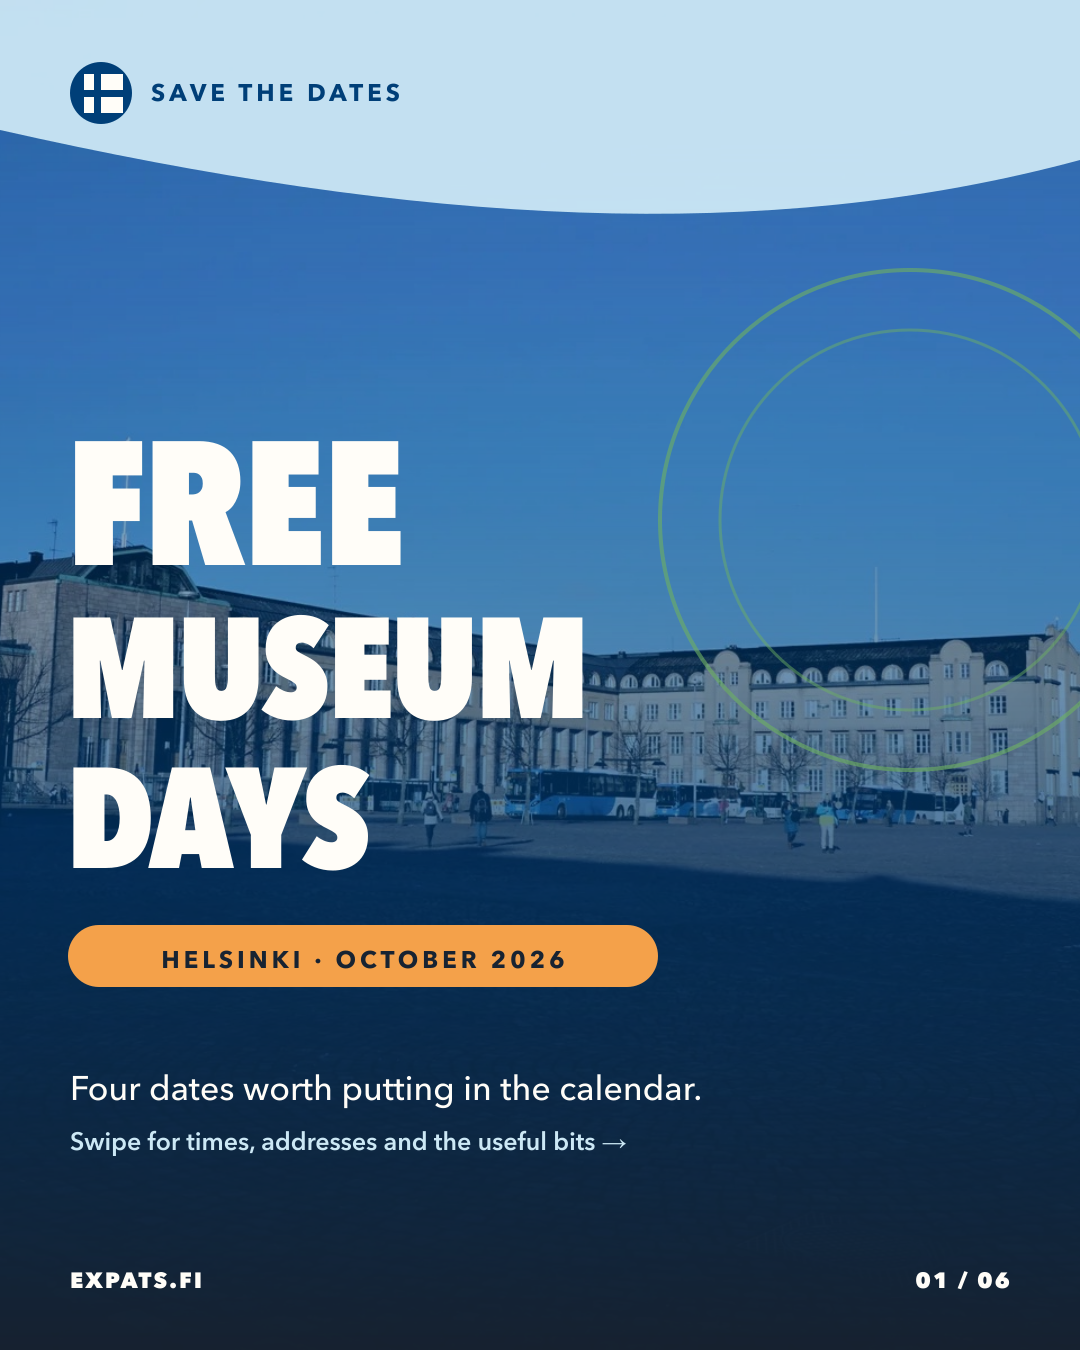
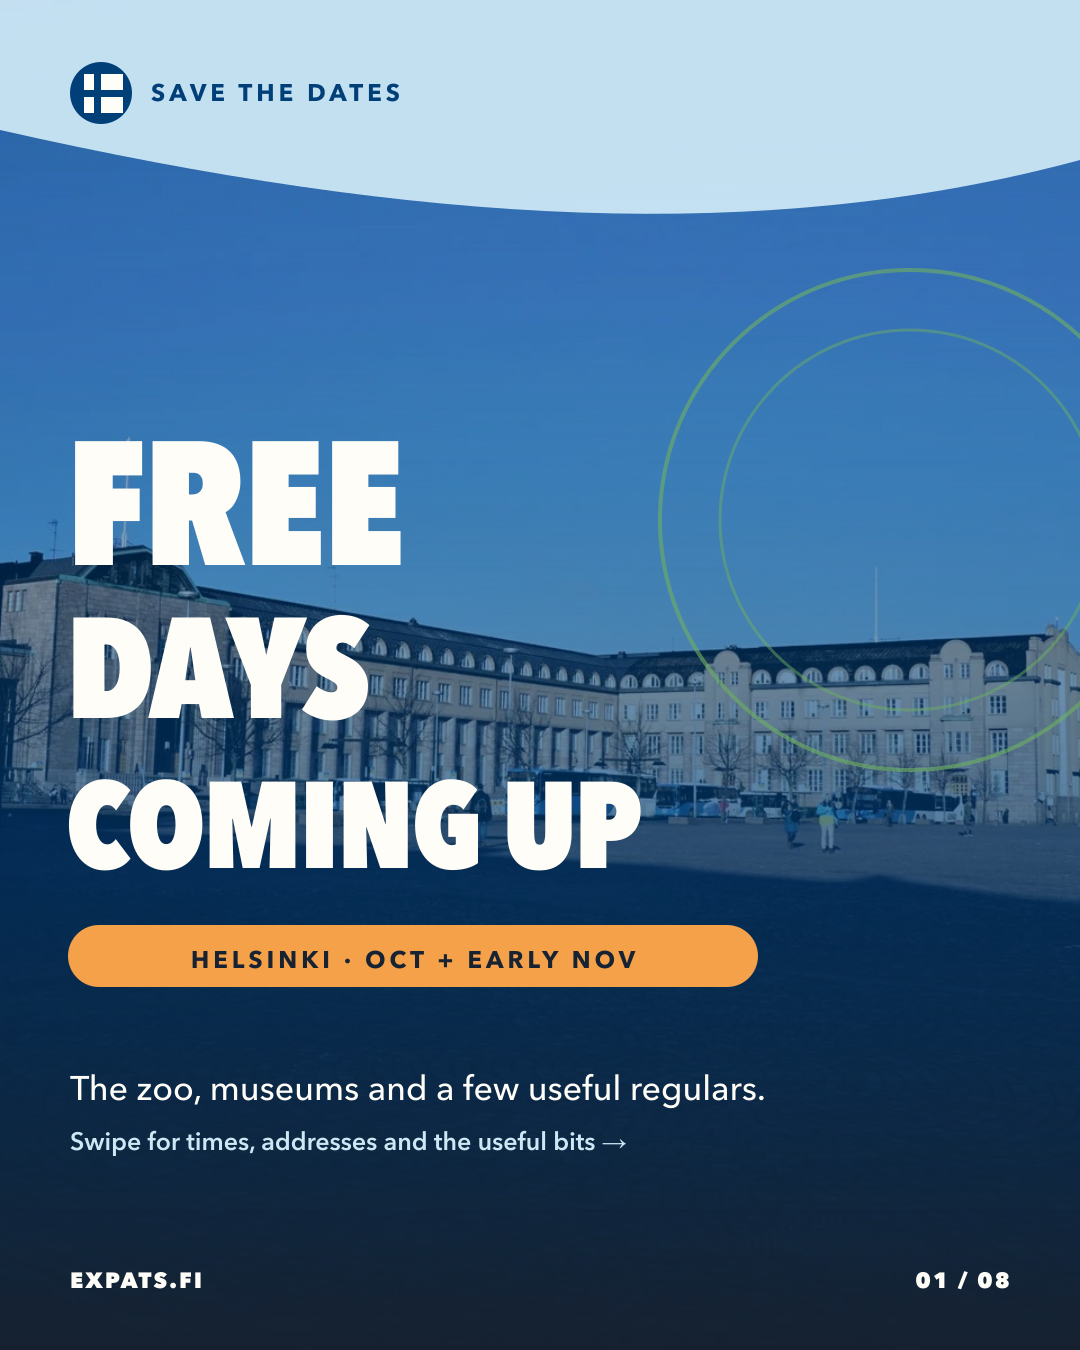
Expand free days carousel beyond museums

diff --git a/docs/social-campaigns/2026-10-free-museum-days.md b/docs/social-campaigns/2026-10-free-museum-days.md
@@ -1,10 +1,10 @@
-# Free museum days in Helsinki, October 2026
+# Free days coming up in Helsinki, October and early November 2026
 
 Prepared: 30 September 2026
 
 ## Carousel files
 
-`public/social/2026-10-free-museum-days/01.png` through `06.png`
+`public/social/2026-10-free-museum-days/01.png` through `08.png`
 
 The artwork follows `docs/social-visual-style.md`. It uses Expats.fi-owned/licensed site assets and does not reuse any directory member's photographs.
 
@@ -13,6 +13,8 @@ The artwork follows `docs/social-visual-style.md`. It uses Expats.fi-owned/licen
 - Kiasma, Friday 2 October, 10.00–20.00. Free admission all day. Free English public tour at 18.00; no advance registration, with sign-up at the information desk. Address: Mannerheiminaukio 2.
   - https://kiasma.fi/en/events/free-admission-day/
   - https://kiasma.fi/en/guided-tours/public-guided-tour-in-english/
+- Korkeasaari Zoo, Monday 5 October, 10.00–16.00. Last entry 15.00. No advance booking; visitor numbers may be limited. The next free zoo day is Monday 2 November with the same hours and conditions.
+  - https://korkeasaari.fi/en/visit-us/info/free-entry-days/
 - Natural History Museum, Friday 9 October, 10.00–17.00. Free admission day. Visitors register at the ticket desk. Address: Pohjoinen Rautatiekatu 13.
   - https://www.helsinki.fi/en/luomus/visit-us/natural-history-museum
   - https://www.helsinki.fi/en/luomus/opening-hours
@@ -20,6 +22,12 @@ The artwork follows `docs/social-visual-style.md`. It uses Expats.fi-owned/licen
   - https://www.hamhelsinki.fi/en/visitors/tickets-prices/
 - Sinebrychoff Art Museum, Friday 30 October, 15.00–18.00. Free-admission evening. Address: Bulevardi 40.
   - https://sinebrychoffintaidemuseo.fi/en/other-events/ilmaisilta/
+- Ateneum, Friday 6 November, 10.00–18.00. Free admission all day. Address: Kaivokatu 2.
+  - https://ateneum.fi/en/other-events/ilmaispaiva/
+- Kiasma, Friday 6 November, 10.00–20.00. Free admission all day. Address: Mannerheiminaukio 2.
+  - https://kiasma.fi/en/events/free-admission-day/
+- Natural History Museum, Wednesday 11 November, 10.00–17.00. Free admission for private visitors.
+  - https://www.helsinki.fi/en/luomus/visit-us/natural-history-museum
 - Helsinki City Museum is always free. Address: Aleksanterinkatu 16. Open Monday–Friday 11.00–19.00 and Saturday–Sunday 11.00–17.00.
 - Tram Museum is always free. Address: Töölönkatu 51 A. Open daily 11.00–17.00.
 - Worker’s Museum is free and open for the 2026 season through 1 November, Wednesday–Sunday 11.00–17.00. Address: Kirstinkuja 4.
@@ -28,9 +36,13 @@ The artwork follows `docs/social-visual-style.md`. It uses Expats.fi-owned/licen
 
 ## Caption
 
-Four free museum dates worth sticking in the calendar this October 👀
+Free days worth sticking in the calendar this October and early November 👀
 
-Kiasma is first up this Friday, with free entry all day and an English guided tour at 18.00. The Natural History Museum follows on 9 October, then HAM and Sinebrychoff both open their doors for free on 30 October.
+Kiasma is first up this Friday, with free entry all day and an English guided tour at 18.00. Then comes the big family one: Korkeasaari Zoo is completely free on Monday 5 October. There is no advance booking and visitor numbers may be limited, so getting there early is the sensible shout.
+
+The Natural History Museum follows on 9 October, then HAM and Sinebrychoff both open their doors for free on 30 October.
+
+We have added the strongest early-November dates too, including another free zoo Monday, Ateneum and Kiasma on the same Friday, and another Natural History Museum day.
 
 We have also added three places you can visit for free without waiting for a special date: Helsinki City Museum, the Tram Museum and the Worker’s Museum, which stays open for the season through 1 November.
 
@@ -42,5 +54,4 @@ More Helsinki finds at expats.fi
 
 ## Alt text
 
-Six-slide Expats.fi carousel listing free museum dates in Helsinki in October 2026. Slide one introduces the guide over a Helsinki city photograph. Slide two lists Kiasma on Friday 2 October from 10.00 to 20.00, including a free English tour at 18.00. Slide three lists the Natural History Museum on Friday 9 October from 10.00 to 17.00. Slide four lists HAM from 11.00 to 19.00 and Sinebrychoff Art Museum from 15.00 to 18.00 on Friday 30 October. Slide five lists the always-free Helsinki City Museum, Tram Museum and Worker’s Museum. Slide six reminds readers to save the post and check organisers before travelling.
-
+Eight-slide Expats.fi carousel listing free days in Helsinki in October and early November 2026. Slide one introduces the guide over a Helsinki city photograph. Slide two lists Kiasma on Friday 2 October from 10.00 to 20.00, including a free English tour at 18.00. Slide three lists Korkeasaari Zoo on Monday 5 October from 10.00 to 16.00 over a close photograph of a tiger. Slide four lists the Natural History Museum on Friday 9 October from 10.00 to 17.00. Slide five lists HAM from 11.00 to 19.00 and Sinebrychoff Art Museum from 15.00 to 18.00 on Friday 30 October. Slide six lists early-November free dates at Korkeasaari Zoo, Ateneum, Kiasma and the Natural History Museum. Slide seven lists the always-free Helsinki City Museum, Tram Museum and Worker’s Museum. Slide eight reminds readers to save the post and check organisers before travelling.
